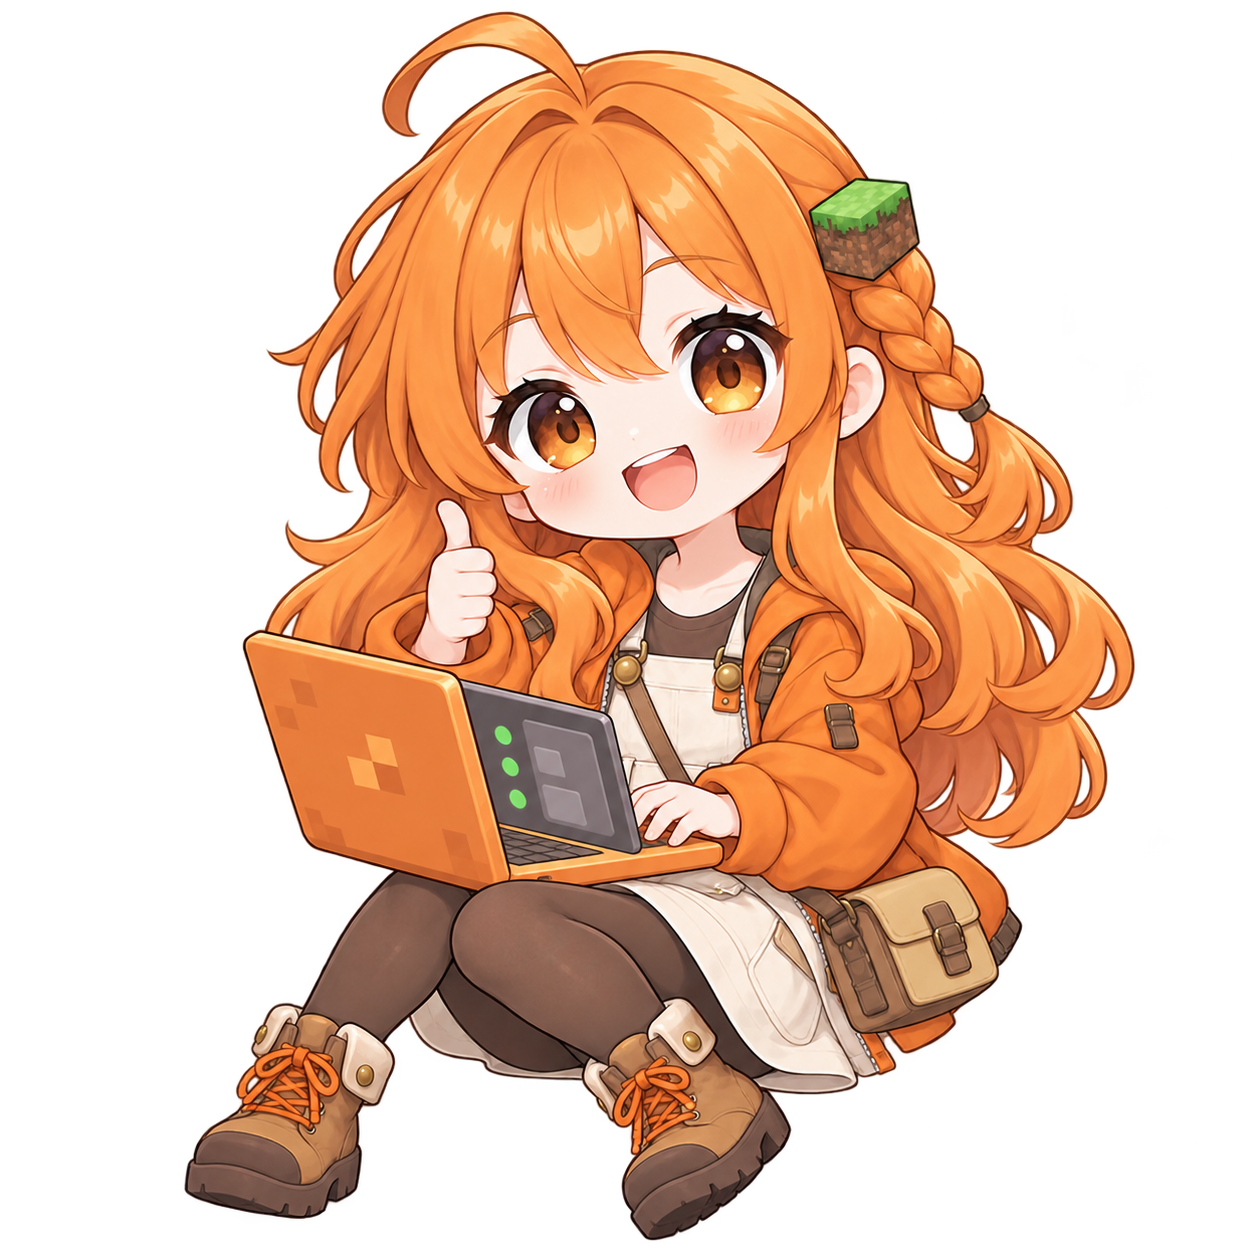
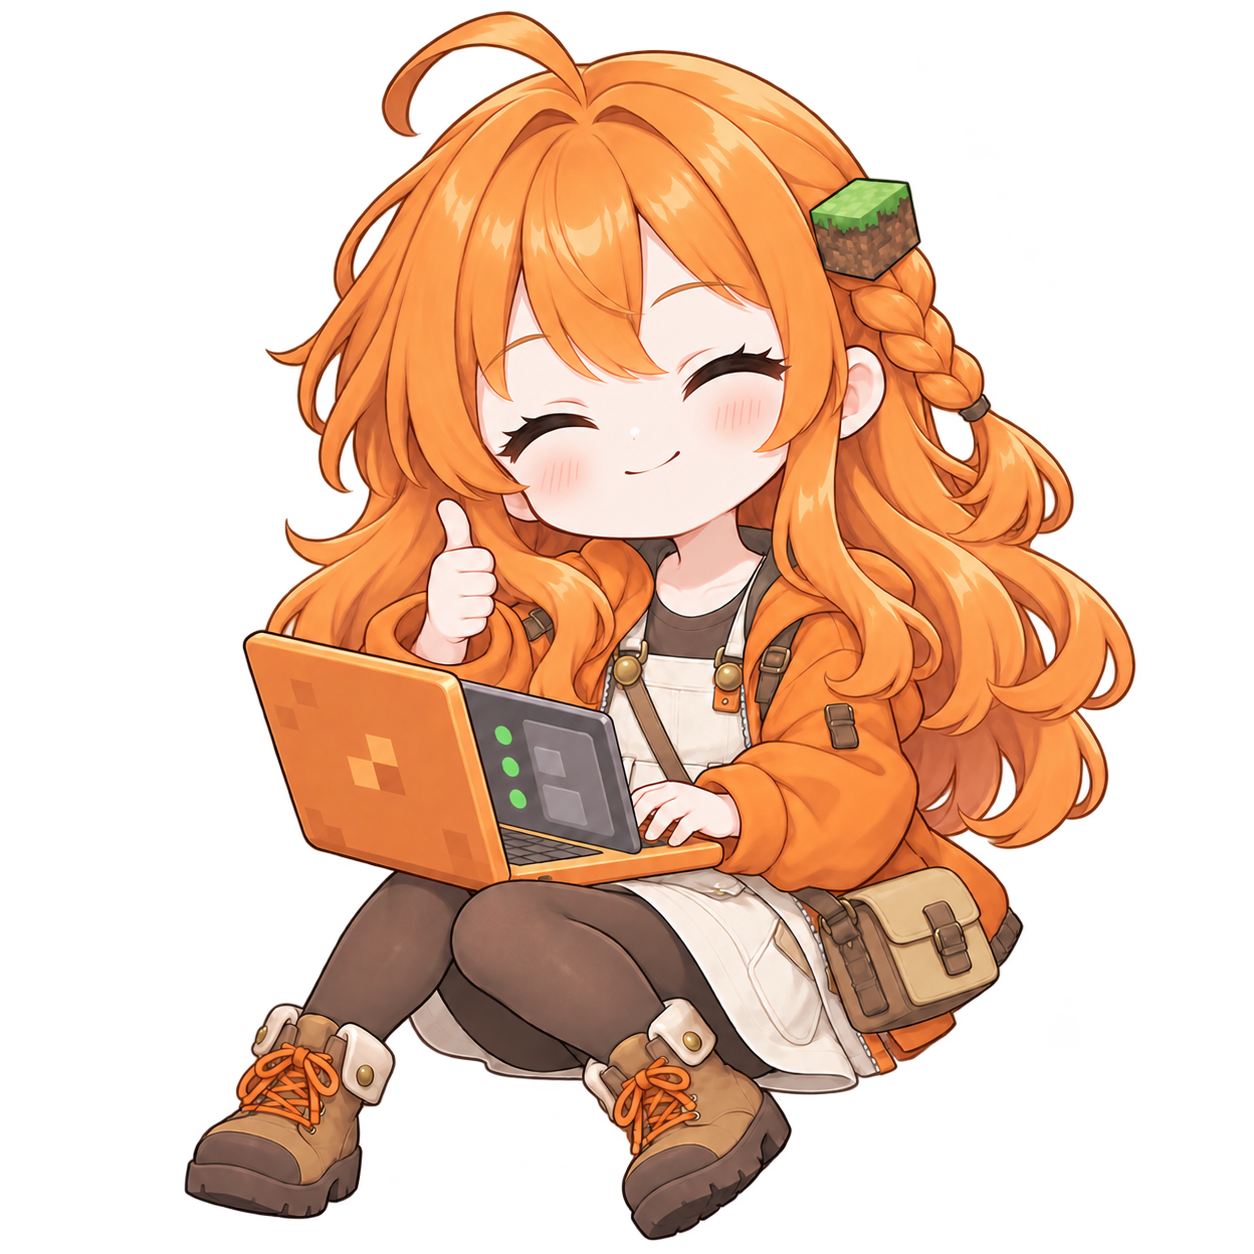
docs: give mascot poses distinct expressions

diff --git a/assets/mascot/PROMPTS.md b/assets/mascot/PROMPTS.md
@@ -2,15 +2,15 @@
 
 橙色主题的 Q 版少女吉祥物：橙发、琥珀眼、橙色冒险外套、奶油色背带裙、棕色靴子与 MC 草方块发饰。五张 PNG 均使用透明背景，由内置 imagegen 生成。
 
-| 文件 | 动作 | README 用途 |
-| --- | --- | --- |
-| hello.png | 挥手欢迎 | 首页 |
-| server.png | 按下开机键 | Docker 快速开服 |
-| client.png | 地图与下载包 | 玩家客户端 |
-| config.png | 清单与铅笔 | YAML 配置 |
-| admin.png | 笔记本与点赞 | Makers 网页管理 |
+| 文件 | 动作 | 表情 | README 用途 |
+| --- | --- | --- | --- |
+| hello.png | 挥手欢迎 | 灿烂开口笑 | 首页 |
+| server.png | 按下开机键 | 单眼眨眼、得意闭嘴笑 | Docker 快速开服 |
+| client.png | 地图与下载包 | 睁大眼睛、圆嘴惊喜 | 玩家客户端 |
+| config.png | 清单与铅笔 | 皱眉、微噘嘴认真思考 | YAML 配置 |
+| admin.png | 笔记本与点赞 | 双眼闭合、安心微笑 | Makers 网页管理 |
 
-新增动作时以 `hello.png` 为角色参照，保留发型、草方块发饰、服装、配色和身材比例。以下记录实际使用的最终提示词，动作图的参照均为 `hello.png`。
+新增动作时以 `hello.png` 为角色参照，保留发型、草方块发饰、服装、配色和身材比例；表情需随场景改变，分别设计眉毛、眼睑、视线与嘴型，避免复用同一张笑脸。以下记录内置 imagegen 的实际提示词：动作图以 `hello.png` 为参照，最后一节以各动作图为目标只修改面部表情。
 
 ## 欢迎图的 Q 版调整
 
@@ -82,4 +82,56 @@ Preserve identity: exactly the same round face, large amber eyes, orange bangs a
 Pose for the optional Makers RCON management section: the girl sits with knees bent comfortably, using a small orange laptop in front of her; one hand typing, the other giving an enthusiastic thumbs-up. The screen shows three simple green status dots and minimal square UI panels, no text. Cheerful confident expression. Full body and entire laptop visible; no chair or room.
 Composition: one girl and only the specified small props, centered in a square canvas with generous padding, full silhouette visible, readable at small sizes.
 Constraints: genuinely transparent alpha background; no backdrop, no floor plane, no cast shadow, no checkerboard texture, no text or letters, no logos, no watermark, no border, no extra figures, no scenery.
+```
+
+## 场景表情修正
+
+角色造型与动作保持一致，四张章节图分别修改面部表情；欢迎图沿用开口笑。
+
+### server.png
+
+```text
+Use case: precise-object-edit
+Asset type: one transparent PNG expression variant for a README mascot.
+Input image 1 is the edit target, showing Chengya (橙芽), the cute orange-haired chibi girl, in her existing action pose.
+Primary request: Change ONLY the FACIAL EXPRESSION. Redraw eyes/eyelids, eyebrows, mouth and cheek expression as explicitly requested below. The original cheerful open-eyed open-mouth expression must NOT be retained. Maintaining character identity does not mean maintaining her old expression.
+Confident playful WINK: close the eye on the viewer's RIGHT into a clearly visible curved wink with eyelashes; keep the other amber eye open. Raise one eyebrow playfully. Replace the current big open mouth with a small closed-mouth asymmetric smug smile. Add subtle cheek blush. The wink and small smirk must be obvious at 144px; no round open mouth.
+Invariants: keep the same character identity, face shape, orange hair and side braid, miniature Minecraft grass-block hairclip, orange jacket, cream overall dress, opaque brown leggings, brown boots, bag, exact full-body action pose, hands, existing props, framing, image size, color palette, clean anime linework and soft cel-shading. Do not alter the body, add props, or change the layout.
+Preserve the genuinely transparent alpha background. No backdrop, checkerboard, floor, text, speech bubbles, watermarks, logos or extra figures. The expression change must remain easy to read when the full image is shown at 144 pixels wide.
+```
+
+### client.png
+
+```text
+Use case: precise-object-edit
+Asset type: one transparent PNG expression variant for a README mascot.
+Input image 1 is the edit target, showing Chengya (橙芽), the cute orange-haired chibi girl, in her existing action pose.
+Primary request: Change ONLY the FACIAL EXPRESSION. Redraw eyes/eyelids, eyebrows, mouth and cheek expression as explicitly requested below. The original cheerful open-eyed open-mouth expression must NOT be retained. Maintaining character identity does not mean maintaining her old expression.
+Delighted SURPRISE AND ANTICIPATION: both eyes wide and round with larger sparkling highlights; both eyebrows raised high. Replace the broad smiling mouth with a SMALL ROUND 'o'-SHAPED OPEN MOUTH, clearly visible surprise, like discovering a new world. Slight blush. The face must look surprised, not the old happy open-mouth smile. Both eyes remain open; no wink.
+Invariants: keep the same character identity, face shape, orange hair and side braid, miniature Minecraft grass-block hairclip, orange jacket, cream overall dress, opaque brown leggings, brown boots, bag, exact full-body action pose, hands, existing props, framing, image size, color palette, clean anime linework and soft cel-shading. Do not alter the body, add props, or change the layout.
+Preserve the genuinely transparent alpha background. No backdrop, checkerboard, floor, text, speech bubbles, watermarks, logos or extra figures. The expression change must remain easy to read when the full image is shown at 144 pixels wide.
+```
+
+### config.png
+
+```text
+Use case: precise-object-edit
+Asset type: one transparent PNG expression variant for a README mascot.
+Input image 1 is the edit target, showing Chengya (橙芽), the cute orange-haired chibi girl, in her existing action pose.
+Primary request: Change ONLY the FACIAL EXPRESSION. Redraw eyes/eyelids, eyebrows, mouth and cheek expression as explicitly requested below. The original cheerful open-eyed open-mouth expression must NOT be retained. Maintaining character identity does not mean maintaining her old expression.
+Cute CONCENTRATED THINKING: lower the gaze toward the checklist she is holding, gently knit the inner brows with one brow slightly higher, and make a tiny CLOSED pursed/pouting mouth with one cheek just slightly puffed. She looks thoughtfully absorbed in checking her recipe. Soft blush; serious but adorable, not angry or distressed. NO smiling open mouth, no wink, no broad grin. Preserve the eye color while changing gaze and eyelids.
+Invariants: keep the same character identity, face shape, orange hair and side braid, miniature Minecraft grass-block hairclip, orange jacket, cream overall dress, opaque brown leggings, brown boots, bag, exact full-body action pose, hands, existing props, framing, image size, color palette, clean anime linework and soft cel-shading. Do not alter the body, add props, or change the layout.
+Preserve the genuinely transparent alpha background. No backdrop, checkerboard, floor, text, speech bubbles, watermarks, logos or extra figures. The expression change must remain easy to read when the full image is shown at 144 pixels wide.
+```
+
+### admin.png
+
+```text
+Use case: precise-object-edit
+Asset type: one transparent PNG expression variant for a README mascot.
+Input image 1 is the edit target, showing Chengya (橙芽), the cute orange-haired chibi girl, in her existing action pose.
+Primary request: Change ONLY the FACIAL EXPRESSION. Redraw eyes/eyelids, eyebrows, mouth and cheek expression as explicitly requested below. The original cheerful open-eyed open-mouth expression must NOT be retained. Maintaining character identity does not mean maintaining her old expression.
+RELIEVED, CONTENTED CLOSED-EYE SMILE: BOTH EYES fully closed as upward-curving happy arcs with delicate lashes, brows relaxed, and a small gentle CLOSED-MOUTH smile. Light warm blush on her cheeks. This should read as calm satisfaction after the server is working. Both eyelids unmistakably closed, not the original open-eyed grin. No open mouth, no wink.
+Invariants: keep the same character identity, face shape, orange hair and side braid, miniature Minecraft grass-block hairclip, orange jacket, cream overall dress, opaque brown leggings, brown boots, bag, exact full-body action pose, hands, existing props, framing, image size, color palette, clean anime linework and soft cel-shading. Do not alter the body, add props, or change the layout.
+Preserve the genuinely transparent alpha background. No backdrop, checkerboard, floor, text, speech bubbles, watermarks, logos or extra figures. The expression change must remain easy to read when the full image is shown at 144 pixels wide.
 ```

diff --git a/README.md b/README.md
@@ -1,7 +1,7 @@
 # Minecraft Vanilla Stack
 
 <p align="center">
-  <img src="assets/mascot/hello.png" width="240" alt="吉祥物橙芽" />
+  <img src="assets/mascot/hello.png" width="240" alt="橙芽灿烂笑着挥手欢迎" />
 </p>
 
 「橙芽」陪你搭起自己的原版世界。
@@ -20,7 +20,7 @@
 ## Docker 快速开服
 
 <p align="center">
-  <img src="assets/mascot/server.png" width="144" alt="橙芽：服务端开服" />
+  <img src="assets/mascot/server.png" width="144" alt="橙芽眨眼得意地微笑，按下服务器电源并竖起拇指" />
 </p>
 
 安装 Docker 与 Compose，克隆仓库后：
@@ -43,7 +43,7 @@ docker compose logs -f minecraft
 ## 玩家客户端
 
 <p align="center">
-  <img src="assets/mascot/client.png" width="144" alt="橙芽：玩家客户端" />
+  <img src="assets/mascot/client.png" width="144" alt="橙芽拿着地图和下载包，张圆嘴露出惊喜期待的表情" />
 </p>
 
 Windows、macOS 与 Linux 使用同一份 HMCL `.mrpack`，其中已包含模组。下载与服主相同的预设和版本，拖入 HMCL 创建独立实例。安装包不含 Java、Minecraft 本体或账号，首次安装仍需联网。
@@ -53,7 +53,7 @@ Windows、macOS 与 Linux 使用同一份 HMCL `.mrpack`，其中已包含模组
 ## 修改 YAML 与本地构建
 
 <p align="center">
-  <img src="assets/mascot/config.png" width="144" alt="橙芽：YAML 配置" />
+  <img src="assets/mascot/config.png" width="144" alt="橙芽拿着铅笔，微噘嘴认真思考清单上的配置" />
 </p>
 
 需要 Python 3.10+ 和 `requirements.txt` 中的依赖：
@@ -74,7 +74,7 @@ python3 tools/build.py build --pack vanilla-plus
 ## 可选 Makers 网页管理
 
 <p align="center">
-  <img src="assets/mascot/admin.png" width="144" alt="橙芽：网页管理" />
+  <img src="assets/mascot/admin.png" width="144" alt="橙芽操作笔记本电脑并竖起拇指，闭眼安心微笑" />
 </p>
 
 `web/` 独立部署到 EdgeOne Makers，保留白名单、玩家管理、难度、规则、天气时间、救援、封禁、结构定位、状态缓存及可选官方认证代理。游戏 Docker 镜像不包含网站或云函数，默认关闭 RCON。
